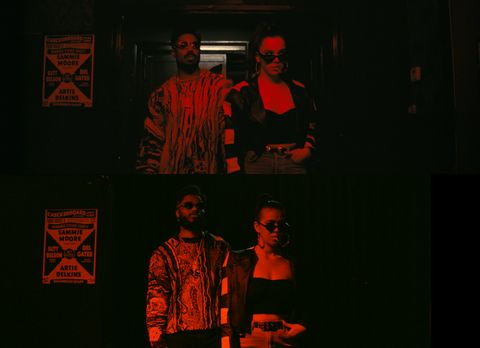
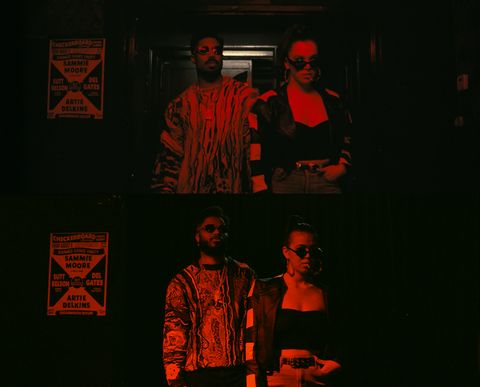
Selected Work: the expert panel's fixes, 2026-09-24
From the four-lane review (hiring, craft, QA, claims). Verified at 1440
(DPR 1 and 2), 390 (DPR 3), 375 and 320: zero horizontal overflow, zero
console errors, axe-core zero violations at 1440 and 390.

- Recreations: the Pearl line no longer sits on top of the Sinners
  frames. The Sinners caption comes before its pictures, and the Pearl
  line says where the winning frame is ("See the winning frame on
  ShotDeck"). The heading is set like the page's other headings.
- The club recreation is cut to the width of his own frame, so no black
  strip runs down one side. The master is untouched; the new web source
  is recorded in the career folder.
- Photography: the strip loads the full files on Retina screens and
  phones (srcset), and the phone strip is 320 px tall instead of 240.
- The 14 row thumbnails load small copies instead of 1280 px stills
  (about 330 KB instead of about 990 KB). The three with burned-in
  letterbox bars are trimmed (make_assets.py rowthumb --trim).
- Closing a row pauses its trailer. Before, it kept playing, hidden.
- A cross-link clicked a second time opens its row again.
- "What I do": no line starts with a separator dot.
- Print: the Direction line no longer claims all six shorts were made
  under a 48 hour clock with full crews. The 2026-09-21 release removed
  the same claim from the screen because the sources conflict.

diff --git a/index.html b/index.html
@@ -145,14 +145,14 @@ h2{font-family:var(--display);font-weight:800;font-size:clamp(1.5rem,3.2vw,1.75r
 .brk{flex-basis:100%;height:0}
 
 /* ---------- recreations: the film's frame above, his below ---------- */
-.subhead{font-family:var(--ui);font-weight:600;font-size:1.0625rem;line-height:1.3;letter-spacing:-.01em;margin:48px 0 0}
-p.laurel{margin:8px 0 0}
-.rec-note{color:var(--muted);margin:16px 0 0;max-width:58ch;font-size:0.9375rem;line-height:1.55}
-.rec-set{margin:24px 0 0}
+.subhead{font-family:var(--display);font-weight:800;font-size:1.375rem;line-height:1.15;letter-spacing:-.02em;margin:48px 0 0}
+p.laurel{margin:16px 0 0}
+.rec-note{color:var(--muted);margin:8px 0 0;max-width:58ch;font-size:0.9375rem;line-height:1.55}
+.rec-set{margin:32px 0 0}
 .recs{display:flex;gap:16px;align-items:flex-start}
 .rec{flex:var(--ar) 1 0%;min-width:0}
 .rec img{aspect-ratio:var(--ar)}
-.rec-set figcaption{margin-top:8px;font-size:0.875rem;line-height:1.45;color:var(--muted);overflow-wrap:anywhere}
+.rec-set figcaption{margin:0 0 8px;font-size:0.875rem;line-height:1.45;color:var(--muted);overflow-wrap:anywhere}
 .rec-set figcaption b{font-weight:600;color:var(--ink)}
 
 /* ---------- capabilities: one line on screen, the six blocks on paper ---------- */
@@ -196,7 +196,7 @@ footer p{margin:0;font-size:0.8125rem;color:var(--muted)}
   .pair{gap:18px}
   .fests{grid-template-columns:1fr}
   .strip{flex-wrap:nowrap;overflow-x:auto;scroll-snap-type:x mandatory;scroll-padding-inline:24px;padding-bottom:8px;margin:0 -24px;padding-left:24px}
-  .ph{flex:0 0 calc(240px * var(--ar));height:240px;scroll-snap-align:start}
+  .ph{flex:0 0 calc(320px * var(--ar));height:320px;scroll-snap-align:start}
   .ph img{width:100%;height:100%;max-width:none;aspect-ratio:auto}
   .brk{display:none}
   .recs{flex-direction:column;gap:16px}
@@ -287,7 +287,7 @@ footer p{margin:0;font-size:0.8125rem;color:var(--muted)}
     <p class="note">Open a row to watch the trailer. Full films are shared by email.</p>
     <details class="entry" id="coulrophobia">
       <summary>
-        <span class="thumb"><img src="assets/films/coulrophobia-still.jpg" alt="Coulrophobia, a figure in blue light" loading="lazy"><svg class="play" viewBox="0 0 48 48" aria-hidden="true"><circle cx="24" cy="24" r="23" fill="rgba(12,12,12,.72)" stroke="#F2EFE8" stroke-width="1.5"/><polygon points="19,15 34,24 19,33" fill="#F2EFE8"/></svg></span>
+        <span class="thumb"><img src="assets/films/coulrophobia-still-thumb.jpg" alt="Coulrophobia, a figure in blue light" loading="lazy"><svg class="play" viewBox="0 0 48 48" aria-hidden="true"><circle cx="24" cy="24" r="23" fill="rgba(12,12,12,.72)" stroke="#F2EFE8" stroke-width="1.5"/><polygon points="19,15 34,24 19,33" fill="#F2EFE8"/></svg></span>
         <span class="who">
           <span class="title">Coulrophobia</span>
           <span class="credit"><!-- ROLE: fill in, e.g. Director, Cinematographer --></span>
@@ -313,7 +313,7 @@ footer p{margin:0;font-size:0.8125rem;color:var(--muted)}
     </details>
     <details class="entry" id="echoes-of-vengeance">
       <summary>
-        <span class="thumb"><img src="assets/films/echoes-of-vengeance-still.jpg" alt="Echoes of Vengeance, a man raising a camera" loading="lazy"><svg class="play" viewBox="0 0 48 48" aria-hidden="true"><circle cx="24" cy="24" r="23" fill="rgba(12,12,12,.72)" stroke="#F2EFE8" stroke-width="1.5"/><polygon points="19,15 34,24 19,33" fill="#F2EFE8"/></svg></span>
+        <span class="thumb"><img src="assets/films/echoes-of-vengeance-still-thumb.jpg" alt="Echoes of Vengeance, a man raising a camera" loading="lazy"><svg class="play" viewBox="0 0 48 48" aria-hidden="true"><circle cx="24" cy="24" r="23" fill="rgba(12,12,12,.72)" stroke="#F2EFE8" stroke-width="1.5"/><polygon points="19,15 34,24 19,33" fill="#F2EFE8"/></svg></span>
         <span class="who">
           <span class="title">Echoes of Vengeance</span>
           <span class="credit">Producer</span>
@@ -332,7 +332,7 @@ footer p{margin:0;font-size:0.8125rem;color:var(--muted)}
     </details>
     <details class="entry" id="the-amount">
       <summary>
-        <span class="thumb"><img src="assets/films/the-amount-still.jpg" alt="The Amount, two people across a table" loading="lazy"><svg class="play" viewBox="0 0 48 48" aria-hidden="true"><circle cx="24" cy="24" r="23" fill="rgba(12,12,12,.72)" stroke="#F2EFE8" stroke-width="1.5"/><polygon points="19,15 34,24 19,33" fill="#F2EFE8"/></svg></span>
+        <span class="thumb"><img src="assets/films/the-amount-still-thumb.jpg" alt="The Amount, two people across a table" loading="lazy"><svg class="play" viewBox="0 0 48 48" aria-hidden="true"><circle cx="24" cy="24" r="23" fill="rgba(12,12,12,.72)" stroke="#F2EFE8" stroke-width="1.5"/><polygon points="19,15 34,24 19,33" fill="#F2EFE8"/></svg></span>
         <span class="who">
           <span class="title">The Amount</span>
           <span class="credit"><!-- ROLE: fill in --></span>
@@ -347,7 +347,7 @@ footer p{margin:0;font-size:0.8125rem;color:var(--muted)}
     </details>
     <details class="entry" id="kai">
       <summary>
-        <span class="thumb"><img src="assets/films/kai-still.jpg" alt="Kai, three people talking in a glass lounge above the city" loading="lazy"><svg class="play" viewBox="0 0 48 48" aria-hidden="true"><circle cx="24" cy="24" r="23" fill="rgba(12,12,12,.72)" stroke="#F2EFE8" stroke-width="1.5"/><polygon points="19,15 34,24 19,33" fill="#F2EFE8"/></svg></span>
+        <span class="thumb"><img src="assets/films/kai-still-thumb.jpg" alt="Kai, three people talking in a glass lounge above the city" loading="lazy"><svg class="play" viewBox="0 0 48 48" aria-hidden="true"><circle cx="24" cy="24" r="23" fill="rgba(12,12,12,.72)" stroke="#F2EFE8" stroke-width="1.5"/><polygon points="19,15 34,24 19,33" fill="#F2EFE8"/></svg></span>
         <span class="who">
           <span class="title">Kai</span>
           <span class="credit"><!-- ROLE: fill in --></span>
@@ -365,7 +365,7 @@ footer p{margin:0;font-size:0.8125rem;color:var(--muted)}
       </div>
     </details>
     <div class="entry static" id="somewhere-bigger">
-      <span class="thumb"><img src="assets/films/somewhere-bigger-poster.jpg" alt="Somewhere Bigger poster, a figure at an airfield at sunset" loading="lazy"></span>
+      <span class="thumb"><img src="assets/films/somewhere-bigger-poster-thumb.jpg" alt="Somewhere Bigger poster, a figure at an airfield at sunset" loading="lazy"></span>
       <span class="who">
         <span class="title">Somewhere Bigger</span>
         <span class="credit"><!-- ROLE: fill in --></span>
@@ -374,7 +374,7 @@ footer p{margin:0;font-size:0.8125rem;color:var(--muted)}
       <span class="open muted">Trailer in progress</span>
     </div>
     <div class="entry static" id="everetts-shadow">
-      <span class="thumb"><img src="assets/films/everetts-shadow-poster.jpg" alt="Everett's Shadow poster, a meteor over two figures on a bench" loading="lazy"></span>
+      <span class="thumb"><img src="assets/films/everetts-shadow-poster-thumb.jpg" alt="Everett's Shadow poster, a meteor over two figures on a bench" loading="lazy"></span>
       <span class="who">
         <span class="title">Everett's Shadow</span>
         <span class="credit"><!-- ROLE: fill in --></span>
@@ -389,7 +389,7 @@ footer p{margin:0;font-size:0.8125rem;color:var(--muted)}
     <p class="note">Brand films, performance coverage, and promotional cuts, shot and edited end to end.</p>
     <details class="entry" id="cinepacks">
       <summary>
-        <span class="thumb"><img src="assets/edits/cinepacks-x-suigeneris-north-hills-final-still.jpg" alt="A performer in neon wings on stage" loading="lazy"><svg class="play" viewBox="0 0 48 48" aria-hidden="true"><circle cx="24" cy="24" r="23" fill="rgba(12,12,12,.72)" stroke="#F2EFE8" stroke-width="1.5"/><polygon points="19,15 34,24 19,33" fill="#F2EFE8"/></svg></span>
+        <span class="thumb"><img src="assets/edits/cinepacks-x-suigeneris-north-hills-final-still-thumb.jpg" alt="A performer in neon wings on stage" loading="lazy"><svg class="play" viewBox="0 0 48 48" aria-hidden="true"><circle cx="24" cy="24" r="23" fill="rgba(12,12,12,.72)" stroke="#F2EFE8" stroke-width="1.5"/><polygon points="19,15 34,24 19,33" fill="#F2EFE8"/></svg></span>
         <span class="who">
           <span class="title">CinePacks x Suigeneris, North Hills</span>
           <span class="credit"><!-- ROLE: fill in --></span>
@@ -404,7 +404,7 @@ footer p{margin:0;font-size:0.8125rem;color:var(--muted)}
     </details>
     <details class="entry" id="tpain-wonderfront">
       <summary>
-        <span class="thumb"><img src="assets/edits/t-pain-wonderfront-2024-frame.jpg" alt="Stage rigging and lights at Wonderfront" loading="lazy"><svg class="play" viewBox="0 0 48 48" aria-hidden="true"><circle cx="24" cy="24" r="23" fill="rgba(12,12,12,.72)" stroke="#F2EFE8" stroke-width="1.5"/><polygon points="19,15 34,24 19,33" fill="#F2EFE8"/></svg></span>
+        <span class="thumb"><img src="assets/edits/t-pain-wonderfront-2024-frame-thumb.jpg" alt="Stage rigging and lights at Wonderfront" loading="lazy"><svg class="play" viewBox="0 0 48 48" aria-hidden="true"><circle cx="24" cy="24" r="23" fill="rgba(12,12,12,.72)" stroke="#F2EFE8" stroke-width="1.5"/><polygon points="19,15 34,24 19,33" fill="#F2EFE8"/></svg></span>
         <span class="who">
           <span class="title">T-Pain at Wonderfront</span>
           <span class="credit"><!-- ROLE: fill in --></span>
@@ -419,7 +419,7 @@ footer p{margin:0;font-size:0.8125rem;color:var(--muted)}
     </details>
     <details class="entry" id="best-fest">
       <summary>
-        <span class="thumb"><img src="assets/edits/wf-the-best-fest-in-the-west-2024-frame.jpg" alt="Wonderfront Festival promo frame" loading="lazy"><svg class="play" viewBox="0 0 48 48" aria-hidden="true"><circle cx="24" cy="24" r="23" fill="rgba(12,12,12,.72)" stroke="#F2EFE8" stroke-width="1.5"/><polygon points="19,15 34,24 19,33" fill="#F2EFE8"/></svg></span>
+        <span class="thumb"><img src="assets/edits/wf-the-best-fest-in-the-west-2024-frame-thumb.jpg" alt="Wonderfront Festival promo frame" loading="lazy"><svg class="play" viewBox="0 0 48 48" aria-hidden="true"><circle cx="24" cy="24" r="23" fill="rgba(12,12,12,.72)" stroke="#F2EFE8" stroke-width="1.5"/><polygon points="19,15 34,24 19,33" fill="#F2EFE8"/></svg></span>
         <span class="who">
           <span class="title">The Best Fest in the West</span>
           <span class="credit"><!-- ROLE: fill in --></span>
@@ -439,7 +439,7 @@ footer p{margin:0;font-size:0.8125rem;color:var(--muted)}
     <p class="note">Short films built with generative image and video tools, directed the same way as live action: story, blocking, and performance first.</p>
     <details class="entry" id="rise-above">
       <summary>
-        <span class="thumb"><img src="assets/ai/rise-above-still.jpg" alt="Rise Above, a hooded figure landing in dust at the Culver Studios gate" loading="lazy"><svg class="play" viewBox="0 0 48 48" aria-hidden="true"><circle cx="24" cy="24" r="23" fill="rgba(12,12,12,.72)" stroke="#F2EFE8" stroke-width="1.5"/><polygon points="19,15 34,24 19,33" fill="#F2EFE8"/></svg></span>
+        <span class="thumb"><img src="assets/ai/rise-above-still-thumb.jpg" alt="Rise Above, a hooded figure landing in dust at the Culver Studios gate" loading="lazy"><svg class="play" viewBox="0 0 48 48" aria-hidden="true"><circle cx="24" cy="24" r="23" fill="rgba(12,12,12,.72)" stroke="#F2EFE8" stroke-width="1.5"/><polygon points="19,15 34,24 19,33" fill="#F2EFE8"/></svg></span>
         <span class="who">
           <span class="title">Rise Above</span>
           <span class="credit"><!-- ROLE: fill in --></span>
@@ -455,7 +455,7 @@ footer p{margin:0;font-size:0.8125rem;color:var(--muted)}
     </details>
     <details class="entry" id="miscast">
       <summary>
-        <span class="thumb"><img src="assets/ai/miscast-still.jpg" alt="Miscast, a small robot in a black and white monster movie street" loading="lazy"><svg class="play" viewBox="0 0 48 48" aria-hidden="true"><circle cx="24" cy="24" r="23" fill="rgba(12,12,12,.72)" stroke="#F2EFE8" stroke-width="1.5"/><polygon points="19,15 34,24 19,33" fill="#F2EFE8"/></svg></span>
+        <span class="thumb"><img src="assets/ai/miscast-still-thumb.jpg" alt="Miscast, a small robot in a black and white monster movie street" loading="lazy"><svg class="play" viewBox="0 0 48 48" aria-hidden="true"><circle cx="24" cy="24" r="23" fill="rgba(12,12,12,.72)" stroke="#F2EFE8" stroke-width="1.5"/><polygon points="19,15 34,24 19,33" fill="#F2EFE8"/></svg></span>
         <span class="who">
           <span class="title">Miscast</span>
           <span class="credit"><!-- ROLE: fill in --></span>
@@ -471,7 +471,7 @@ footer p{margin:0;font-size:0.8125rem;color:var(--muted)}
     </details>
     <details class="entry" id="hero">
       <summary>
-        <span class="thumb"><img src="assets/ai/hero-frame.jpg" alt="Hero, a lone figure kneeling in a floodlit compound as armed figures advance" loading="lazy"><svg class="play" viewBox="0 0 48 48" aria-hidden="true"><circle cx="24" cy="24" r="23" fill="rgba(12,12,12,.72)" stroke="#F2EFE8" stroke-width="1.5"/><polygon points="19,15 34,24 19,33" fill="#F2EFE8"/></svg></span>
+        <span class="thumb"><img src="assets/ai/hero-frame-thumb.jpg" alt="Hero, a lone figure kneeling in a floodlit compound as armed figures advance" loading="lazy"><svg class="play" viewBox="0 0 48 48" aria-hidden="true"><circle cx="24" cy="24" r="23" fill="rgba(12,12,12,.72)" stroke="#F2EFE8" stroke-width="1.5"/><polygon points="19,15 34,24 19,33" fill="#F2EFE8"/></svg></span>
         <span class="who">
           <span class="title">Hero</span>
           <span class="credit"><!-- ROLE: fill in --></span>
@@ -486,7 +486,7 @@ footer p{margin:0;font-size:0.8125rem;color:var(--muted)}
     </details>
     <details class="entry" id="last-light-film">
       <summary>
-        <span class="thumb"><img src="assets/ai/last-light-frame.jpg" alt="The Last Light, a felt puppet boy in a corn field lifting a lid above a lit pumpkin" loading="lazy"><svg class="play" viewBox="0 0 48 48" aria-hidden="true"><circle cx="24" cy="24" r="23" fill="rgba(12,12,12,.72)" stroke="#F2EFE8" stroke-width="1.5"/><polygon points="19,15 34,24 19,33" fill="#F2EFE8"/></svg></span>
+        <span class="thumb"><img src="assets/ai/last-light-frame-thumb.jpg" alt="The Last Light, a felt puppet boy in a corn field lifting a lid above a lit pumpkin" loading="lazy"><svg class="play" viewBox="0 0 48 48" aria-hidden="true"><circle cx="24" cy="24" r="23" fill="rgba(12,12,12,.72)" stroke="#F2EFE8" stroke-width="1.5"/><polygon points="19,15 34,24 19,33" fill="#F2EFE8"/></svg></span>
         <span class="who">
           <span class="title">The Last Light</span>
           <span class="credit"><!-- ROLE: fill in --></span>
@@ -501,7 +501,7 @@ footer p{margin:0;font-size:0.8125rem;color:var(--muted)}
     </details>
     <details class="entry" id="the-wrong">
       <summary>
-        <span class="thumb"><img src="assets/ai/the-wrong-kitchen-frame.jpg" alt="The Wrong, a man standing over a running kitchen sink in a dark house" loading="lazy"><svg class="play" viewBox="0 0 48 48" aria-hidden="true"><circle cx="24" cy="24" r="23" fill="rgba(12,12,12,.72)" stroke="#F2EFE8" stroke-width="1.5"/><polygon points="19,15 34,24 19,33" fill="#F2EFE8"/></svg></span>
+        <span class="thumb"><img src="assets/ai/the-wrong-kitchen-frame-thumb.jpg" alt="The Wrong, a man standing over a running kitchen sink in a dark house" loading="lazy"><svg class="play" viewBox="0 0 48 48" aria-hidden="true"><circle cx="24" cy="24" r="23" fill="rgba(12,12,12,.72)" stroke="#F2EFE8" stroke-width="1.5"/><polygon points="19,15 34,24 19,33" fill="#F2EFE8"/></svg></span>
         <span class="who">
           <span class="title">The Wrong</span>
           <span class="credit"><!-- ROLE: fill in --></span>
@@ -602,31 +602,31 @@ footer p{margin:0;font-size:0.8125rem;color:var(--muted)}
     <h2 id="h-photo">Photography</h2>
     <p class="note">Live music, festivals, and portraiture. Exhibited at the San Diego County Fair. Open any frame for the full image.</p>
     <div class="strip">
-      <a class="ph" style="--ar:0.8" href="assets/photos/noir-elegance.jpg"><img src="assets/photos/noir-elegance-thumb.jpg" alt="Noir Elegance, studio portrait in a wide-brimmed hat" loading="lazy"></a>
-      <a class="ph" style="--ar:0.8" href="assets/photos/tpain-stage-01.jpg"><img src="assets/photos/tpain-stage-01-thumb.jpg" alt="T-Pain on stage at Wonderfront Festival, San Diego, 2024" loading="lazy"></a>
-      <a class="ph" style="--ar:0.8" href="assets/photos/back-to-the-fair.jpg"><img src="assets/photos/back-to-the-fair-thumb.jpg" alt="Back to the San Diego Fair, two women with a DeLorean" loading="lazy"></a>
+      <a class="ph" style="--ar:0.8" href="assets/photos/noir-elegance.jpg"><img src="assets/photos/noir-elegance-thumb.jpg" srcset="assets/photos/noir-elegance-thumb.jpg 384w, assets/photos/noir-elegance.jpg 1280w" sizes="(max-width:640px) 256px, (max-width:820px) calc((100vw - 64px) / 3), 252px" alt="Noir Elegance, studio portrait in a wide-brimmed hat" loading="lazy"></a>
+      <a class="ph" style="--ar:0.8" href="assets/photos/tpain-stage-01.jpg"><img src="assets/photos/tpain-stage-01-thumb.jpg" srcset="assets/photos/tpain-stage-01-thumb.jpg 384w, assets/photos/tpain-stage-01.jpg 960w" sizes="(max-width:640px) 256px, (max-width:820px) calc((100vw - 64px) / 3), 252px" alt="T-Pain on stage at Wonderfront Festival, San Diego, 2024" loading="lazy"></a>
+      <a class="ph" style="--ar:0.8" href="assets/photos/back-to-the-fair.jpg"><img src="assets/photos/back-to-the-fair-thumb.jpg" srcset="assets/photos/back-to-the-fair-thumb.jpg 384w, assets/photos/back-to-the-fair.jpg 1280w" sizes="(max-width:640px) 256px, (max-width:820px) calc((100vw - 64px) / 3), 252px" alt="Back to the San Diego Fair, two women with a DeLorean" loading="lazy"></a>
       <span class="brk"></span>
-      <a class="ph" style="--ar:1.6" href="assets/photos/edge-of-history.jpg"><img src="assets/photos/edge-of-history-thumb.jpg" alt="Edge of History, an island under a broken sky" loading="lazy"></a>
-      <a class="ph" style="--ar:0.8" href="assets/photos/unspoken-bond.jpg"><img src="assets/photos/unspoken-bond-thumb.jpg" alt="Unspoken Bond, a couple in a golden field" loading="lazy"></a>
-      <a class="ph" style="--ar:0.8" href="assets/photos/dj-silhouette.jpg"><img src="assets/photos/dj-silhouette-thumb.jpg" alt="A DJ set in silhouette, Wonderfront Festival, 2024" loading="lazy"></a>
+      <a class="ph" style="--ar:1.6" href="assets/photos/edge-of-history.jpg"><img src="assets/photos/edge-of-history-thumb.jpg" srcset="assets/photos/edge-of-history-thumb.jpg 480w, assets/photos/edge-of-history.jpg 1600w" sizes="(max-width:640px) 512px, (max-width:820px) calc((100vw - 64px) / 2), 378px" alt="Edge of History, an island under a broken sky" loading="lazy"></a>
+      <a class="ph" style="--ar:0.8" href="assets/photos/unspoken-bond.jpg"><img src="assets/photos/unspoken-bond-thumb.jpg" srcset="assets/photos/unspoken-bond-thumb.jpg 384w, assets/photos/unspoken-bond.jpg 1280w" sizes="(max-width:640px) 256px, (max-width:820px) calc((100vw - 64px) / 4), 189px" alt="Unspoken Bond, a couple in a golden field" loading="lazy"></a>
+      <a class="ph" style="--ar:0.8" href="assets/photos/dj-silhouette.jpg"><img src="assets/photos/dj-silhouette-thumb.jpg" srcset="assets/photos/dj-silhouette-thumb.jpg 384w, assets/photos/dj-silhouette.jpg 930w" sizes="(max-width:640px) 256px, (max-width:820px) calc((100vw - 64px) / 4), 189px" alt="A DJ set in silhouette, Wonderfront Festival, 2024" loading="lazy"></a>
     </div>
     <h3 class="subhead" id="recreations">Recreations</h3>
-    <p class="laurel">Pearl: Grand Prize, Best Costume Design, <a href="https://community.shotdeck.com/recreations/2024/grand-prize-winners/2024-best-costume-design-grand-prize-christopher-white/">ShotDeck Recreations Contest 2024</a></p>
     <p class="rec-note">Film frames rebuilt from scratch: the film's frame above, mine below.</p>
+    <p class="laurel">Pearl: Grand Prize, Best Costume Design, ShotDeck Recreations Contest 2024. <a href="https://community.shotdeck.com/recreations/2024/grand-prize-winners/2024-best-costume-design-grand-prize-christopher-white/">See the winning frame on ShotDeck</a></p>
     <figure class="rec-set">
-      <div class="recs">
-        <a class="sheet rec" style="--ar:0.8888" href="assets/photos/recreation-sinners-gunfire.jpg"><img src="assets/photos/recreation-sinners-gunfire-thumb.jpg" srcset="assets/photos/recreation-sinners-gunfire-thumb.jpg 427w, assets/photos/recreation-sinners-gunfire.jpg 1422w" sizes="(max-width:640px) calc(100vw - 48px), 300px" alt="Two frames stacked: above, a shot from Sinners; below, the same shot recreated. A man in a stained tank top fires a drum-fed submachine gun toward the camera on a dirt road." loading="lazy"></a>
-        <a class="sheet rec" style="--ar:1.3793" href="assets/photos/recreation-sinners-club.jpg"><img src="assets/photos/recreation-sinners-club-thumb.jpg" srcset="assets/photos/recreation-sinners-club-thumb.jpg 480w, assets/photos/recreation-sinners-club.jpg 1600w" sizes="(max-width:640px) calc(100vw - 48px), 460px" alt="Two frames stacked: above, a shot from Sinners; below, the same shot recreated. A man and a woman in sunglasses stand in a red-lit doorway beside a Checkerboard Lounge poster." loading="lazy"></a>
-      </div>
       <figcaption><b>Sinners</b>: two frames recreated for the ShotDeck Recreations Contest 2025</figcaption>
+      <div class="recs">
+        <a class="sheet rec" style="--ar:0.8888" href="assets/photos/recreation-sinners-gunfire.jpg"><img src="assets/photos/recreation-sinners-gunfire-thumb.jpg" srcset="assets/photos/recreation-sinners-gunfire-thumb.jpg 427w, assets/photos/recreation-sinners-gunfire.jpg 1422w" sizes="(max-width:640px) calc(100vw - 48px), 316px" alt="Two frames stacked: above, a shot from Sinners; below, the same shot recreated. A man in a stained tank top fires a drum-fed submachine gun toward the camera on a dirt road." loading="lazy"></a>
+        <a class="sheet rec" style="--ar:1.2392" href="assets/photos/recreation-sinners-club.jpg"><img src="assets/photos/recreation-sinners-club-thumb.jpg" srcset="assets/photos/recreation-sinners-club-thumb.jpg 480w, assets/photos/recreation-sinners-club.jpg 1600w" sizes="(max-width:640px) calc(100vw - 48px), 440px" alt="Two frames stacked: above, a shot from Sinners; below, the same shot recreated. A man and a woman in sunglasses stand in a red-lit doorway beside a Checkerboard Lounge poster." loading="lazy"></a>
+      </div>
     </figure>
   </section>
 
   <section id="capabilities" aria-labelledby="h-caps">
     <h2 id="h-caps">What I do</h2>
-    <p class="capline"><a href="#film">Direction</a> <span aria-hidden="true">·</span> <a href="#film">Camera</a> <span aria-hidden="true">·</span> <a href="#motion">Editing and finishing</a> <span aria-hidden="true">·</span> <a href="#photography">Photography</a> <span aria-hidden="true">·</span> <a href="#generative">Generative video pipeline</a></p>
+    <p class="capline"><a href="#film">Direction</a>&nbsp;<span aria-hidden="true">·</span> <a href="#film">Camera</a>&nbsp;<span aria-hidden="true">·</span> <a href="#motion">Editing and finishing</a>&nbsp;<span aria-hidden="true">·</span> <a href="#photography">Photography</a>&nbsp;<span aria-hidden="true">·</span> <a href="#generative">Generative video pipeline</a></p>
     <div class="caps-print">
-      <div><h3>Direction</h3><p>story, casting, blocking, and performance; six shorts delivered with full crews under a 48 hour clock.</p></div>
+      <div><h3>Direction</h3><p>story, casting, blocking, and performance.</p></div>
       <div><h3>Camera</h3><p>lighting and camera for narrative, live music, and brand work, indoors and on location.</p></div>
       <div><h3>Editing and finishing</h3><p>assembly through picture lock, sound, color, titles, delivery in horizontal and vertical formats.</p></div>
       <div><h3>Photography</h3><p>events, live performance, and portraiture, shot and retouched to exhibition standard.</p></div>
@@ -661,7 +661,8 @@ document.querySelectorAll('a.hero').forEach(a => a.addEventListener('click', e =
   v.play().catch(() => { /* Native controls remain available if playback is blocked. */ });
 }));
 document.querySelectorAll('details.entry').forEach(d => d.addEventListener('toggle', () => {
-  if (!d.open) return;
+  /* Closing a row hides its player, so it must not keep playing out of sight. */
+  if (!d.open) { d.querySelectorAll('video').forEach(v => v.pause()); return; }
   /* querySelectorAll, not querySelector: an entry can hold more than one clip. */
   d.querySelectorAll('video').forEach(v => { if (!v.poster && v.dataset.poster) v.poster = v.dataset.poster; });
 }));
@@ -675,6 +676,11 @@ function openHashTarget(){
 }
 addEventListener('hashchange', openHashTarget);
 openHashTarget();
+/* Clicking the same link twice leaves the hash unchanged, so hashchange stays silent. */
+document.addEventListener('click', e => {
+  const a = e.target.closest('a[href^="#"]');
+  if (a && a.getAttribute('href') === location.hash) setTimeout(openHashTarget, 0);
+});
 document.addEventListener('play', e => {
   if (e.target.tagName !== 'VIDEO') return;
   document.querySelectorAll('video').forEach(v => { if (v !== e.target) v.pause(); });
